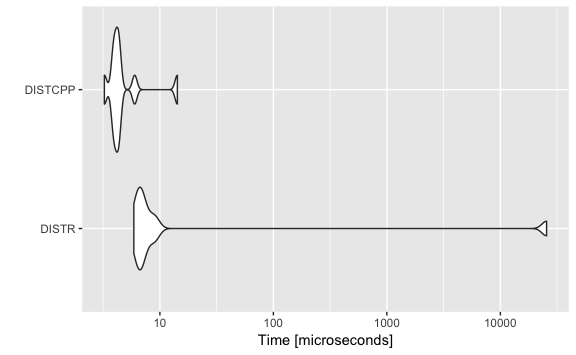
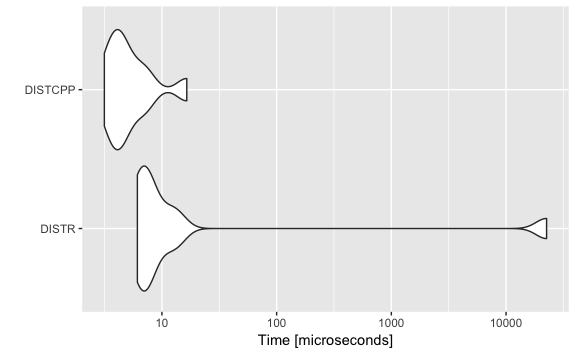
benchmark euclidean distance

diff --git a/README.md b/README.md
@@ -16,7 +16,9 @@ devtools::install_github("ygeunkim/swatanomaly")
 library(swatanomaly)
 ```
 
-## Euclidean Distance
+## Benchmark
+
+### Euclidean Distance
 
 ``` r
 set.seed(1)
@@ -29,6 +31,13 @@ euclidean_distance <- function(x, y) {
   sum(sqrt(colSums((x - y)^2)))
 }
 ```
+
+Using `swatanomaly::euc_dist(x, y)`, we try to compute
+
+  
+![\\sum\_i \\sqrt{\\sum\_j (x\_{ij} -
+y\_{ij})^2}](https://latex.codecogs.com/png.latex?%5Csum_i%20%5Csqrt%7B%5Csum_j%20%28x_%7Bij%7D%20-%20y_%7Bij%7D%29%5E2%7D
+"\\sum_i \\sqrt{\\sum_j (x_{ij} - y_{ij})^2}")  
 
 ``` r
 euclidean_distance(x1, x2)
@@ -48,6 +57,8 @@ ggplot2::autoplot(
 ```
 
 <img src="README_files/figure-gfm/unnamed-chunk-6-1.png" width="70%" style="display: block; margin: auto;" />
+
+It is obvious that `Rcpp` is faster than `R` solution.
 
 -----
 
